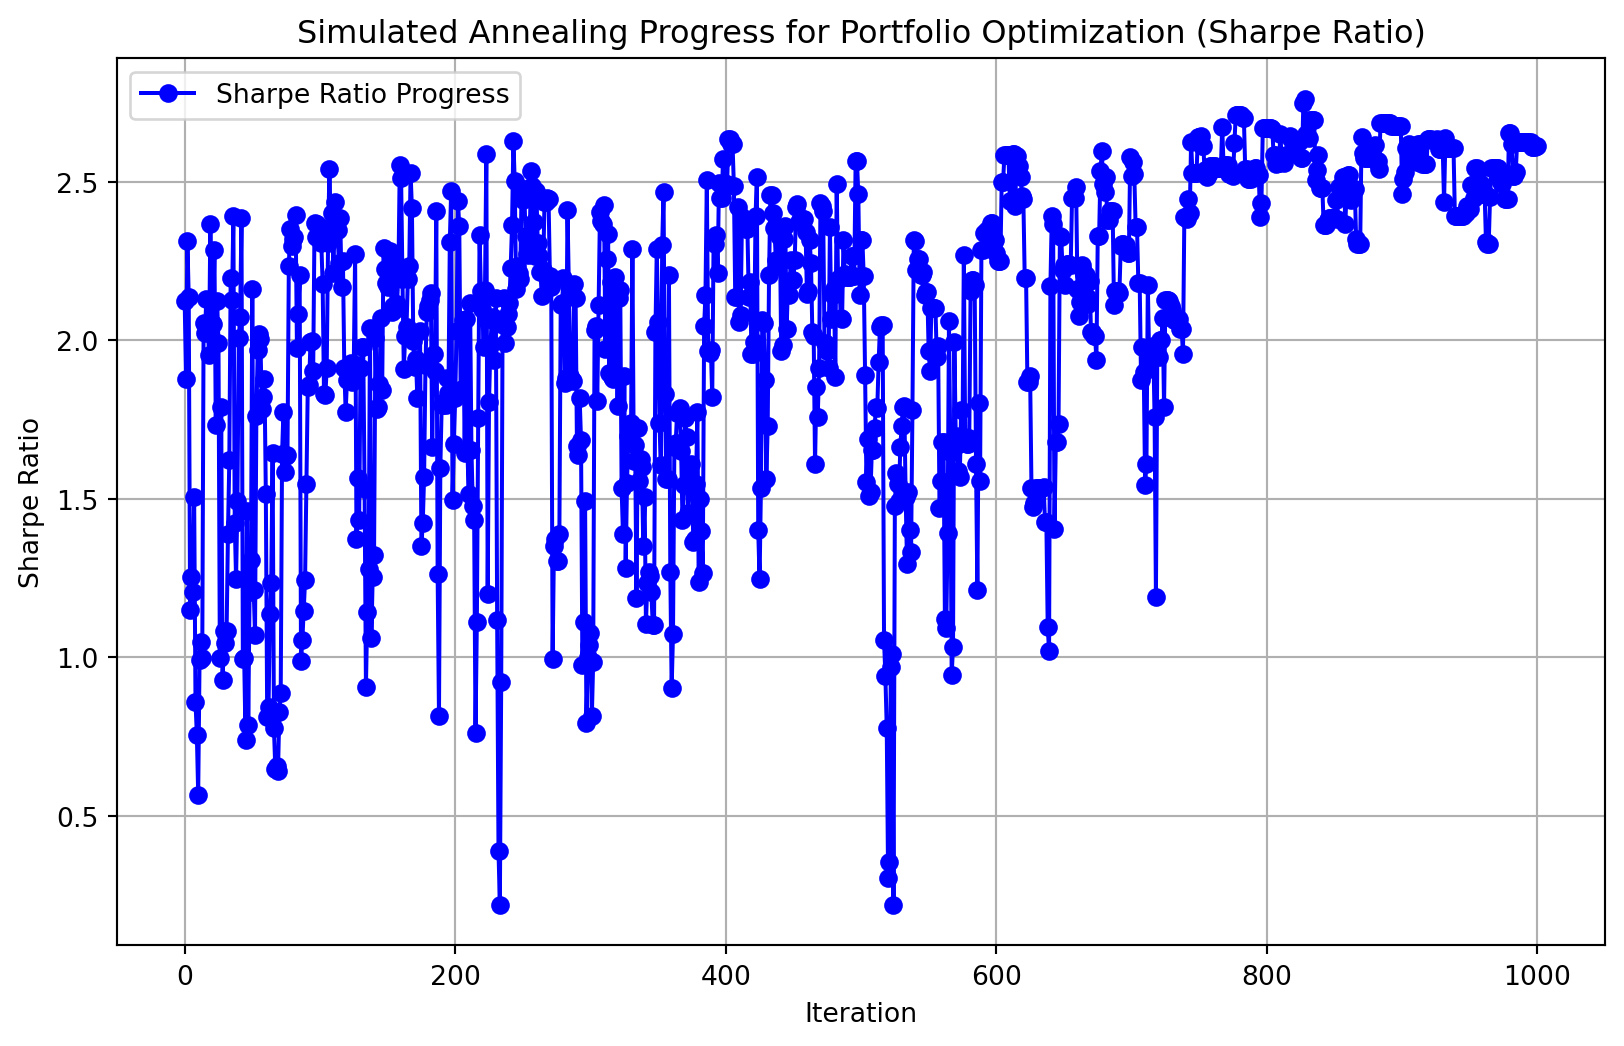
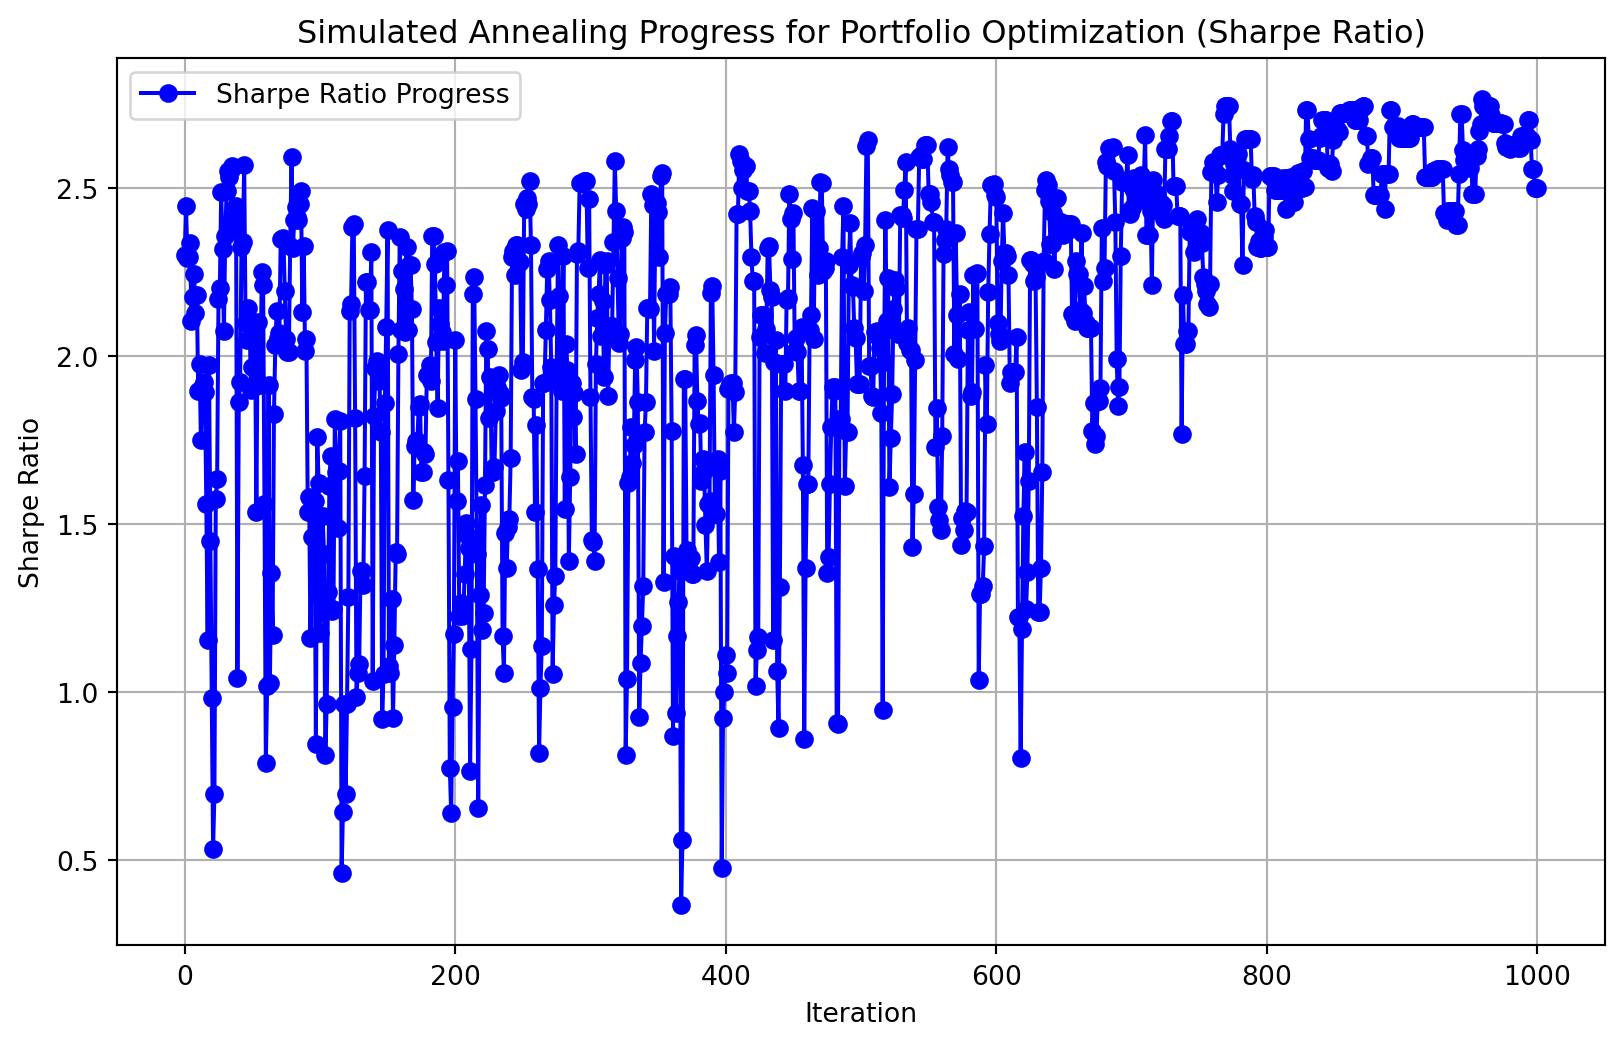
update SA

diff --git a/docs/sa.html b/docs/sa.html
@@ -352,28 +352,16 @@ window.Quarto = {
 <section id="a-unified-framework-for-metaheuristic-algorithms-ufm" class="level2">
 <h2 class="anchored" data-anchor-id="a-unified-framework-for-metaheuristic-algorithms-ufm">A Unified Framework for Metaheuristic Algorithms (UFM)</h2>
 <ul>
-<li>The appearance of metaheuristic algorithms has come with methods to classify them. These classification methods include:
-<ul>
-<li><ol type="1">
-<li>nature-inspired vs.&nbsp;non-nature inspired,</li>
-</ol></li>
-<li><ol start="2" type="1">
-<li>dynamic vs.&nbsp;static objective function,</li>
-</ol></li>
-<li><ol start="3" type="1">
-<li>one vs.&nbsp;various neighborhood structures,</li>
-</ol></li>
-<li><ol start="4" type="1">
-<li>memory usage vs.&nbsp;memoryless methods,</li>
-</ol></li>
-<li><ol start="5" type="1">
-<li>with vs.&nbsp;without local search method, and</li>
-</ol></li>
-<li><ol start="6" type="1">
-<li>population-based vs.&nbsp;single-solution-based search.</li>
-</ol></li>
-</ul></li>
+<li>The appearance of metaheuristic algorithms has come with methods to classify them. These classification methods include:</li>
 </ul>
+<ol type="1">
+<li>nature-inspired vs.&nbsp;non-nature inspired,</li>
+<li>dynamic vs.&nbsp;static objective function,</li>
+<li>one vs.&nbsp;various neighborhood structures,</li>
+<li>memory usage vs.&nbsp;memoryless methods,</li>
+<li>with vs.&nbsp;without local search method, and</li>
+<li>population-based vs.&nbsp;single-solution-based search.</li>
+</ol>
 </section>
 <section id="ufm-5-main-operators" class="level2">
 <h2 class="anchored" data-anchor-id="ufm-5-main-operators">UFM 5 Main Operators</h2>
@@ -617,7 +605,7 @@ window.Quarto = {
 <h1>Making a Model: One Max with SA</h1>
 <section id="imports-global-variables" class="level2">
 <h2 class="anchored" data-anchor-id="imports-global-variables">Imports, Global Variables</h2>
-<div id="afe1efc4" class="cell" data-execution_count="1">
+<div id="7337e746" class="cell" data-execution_count="1">
 <div class="sourceCode cell-code" id="cb1"><pre class="sourceCode python code-with-copy"><code class="sourceCode python"><span id="cb1-1"><a href="#cb1-1" aria-hidden="true" tabindex="-1"></a><span class="co">##Simulated Annealing One-Max Example</span></span>
 <span id="cb1-2"><a href="#cb1-2" aria-hidden="true" tabindex="-1"></a><span class="im">import</span> numpy <span class="im">as</span> np</span>
 <span id="cb1-3"><a href="#cb1-3" aria-hidden="true" tabindex="-1"></a><span class="im">import</span> random</span>
@@ -637,7 +625,7 @@ window.Quarto = {
 <ul>
 <li>The init_sa function initializes a random solution (sol) for the One-Max problem by generating a binary array of size num_bits (default 10), where each element is randomly set to 0 or 1.The initial solution is evaluated using the One-Max function (evaluate) to calculate its fitness (i.e., the sum of 1’s in the array).The function returns the initial solution and its evaluated fitness.</li>
 </ul>
-<div id="d781e37d" class="cell" data-execution_count="2">
+<div id="7439b102" class="cell" data-execution_count="2">
 <div class="sourceCode cell-code" id="cb2"><pre class="sourceCode python code-with-copy"><code class="sourceCode python"><span id="cb2-1"><a href="#cb2-1" aria-hidden="true" tabindex="-1"></a><span class="co"># Initialization function (I)</span></span>
 <span id="cb2-2"><a href="#cb2-2" aria-hidden="true" tabindex="-1"></a><span class="kw">def</span> init_sa(num_bits):</span>
 <span id="cb2-3"><a href="#cb2-3" aria-hidden="true" tabindex="-1"></a>    sol <span class="op">=</span> np.random.randint(<span class="dv">0</span>, <span class="dv">2</span>, num_bits)</span>
@@ -650,7 +638,7 @@ window.Quarto = {
 <li>This is done by randomly selecting an index in the binary array and toggling the bit (changing 1 to 0 or 0 to 1).</li>
 <li>This new solution represents the neighboring candidate that will be evaluated next, which is a small random change to the current solution.</li>
 </ul>
-<div id="32e40772" class="cell" data-execution_count="3">
+<div id="aba89957" class="cell" data-execution_count="3">
 <div class="sourceCode cell-code" id="cb3"><pre class="sourceCode python code-with-copy"><code class="sourceCode python"><span id="cb3-1"><a href="#cb3-1" aria-hidden="true" tabindex="-1"></a><span class="co"># Transition function (T)</span></span>
 <span id="cb3-2"><a href="#cb3-2" aria-hidden="true" tabindex="-1"></a><span class="kw">def</span> transit(sol):</span>
 <span id="cb3-3"><a href="#cb3-3" aria-hidden="true" tabindex="-1"></a>    new_sol <span class="op">=</span> sol.copy()</span>
@@ -664,7 +652,7 @@ window.Quarto = {
 <ul>
 <li>The evaluate function calculates the fitness of the current solution by summing up the number of 1’s in the binary array (sol).The One-Max problem aims to maximize this value, with the goal being to find the solution with all bits set to 1.</li>
 </ul>
-<div id="ca8c0f10" class="cell" data-execution_count="4">
+<div id="b1e90ff8" class="cell" data-execution_count="4">
 <div class="sourceCode cell-code" id="cb4"><pre class="sourceCode python code-with-copy"><code class="sourceCode python"><span id="cb4-1"><a href="#cb4-1" aria-hidden="true" tabindex="-1"></a><span class="co"># Evaluation Function (E): One-max function</span></span>
 <span id="cb4-2"><a href="#cb4-2" aria-hidden="true" tabindex="-1"></a><span class="kw">def</span> evaluate(sol):</span>
 <span id="cb4-3"><a href="#cb4-3" aria-hidden="true" tabindex="-1"></a>    <span class="cf">return</span> np.<span class="bu">sum</span>(sol)</span></code><button title="Copy to Clipboard" class="code-copy-button"><i class="bi"></i></button></pre></div>
@@ -682,7 +670,7 @@ window.Quarto = {
 </ul></li>
 <li>The function returns True if the new solution is accepted, otherwise False.</li>
 </ul>
-<div id="dc75d955" class="cell" data-execution_count="5">
+<div id="12f8e120" class="cell" data-execution_count="5">
 <div class="sourceCode cell-code" id="cb5"><pre class="sourceCode python code-with-copy"><code class="sourceCode python"><span id="cb5-1"><a href="#cb5-1" aria-hidden="true" tabindex="-1"></a><span class="co"># Determination function for SA (D)</span></span>
 <span id="cb5-2"><a href="#cb5-2" aria-hidden="true" tabindex="-1"></a><span class="kw">def</span> determine(neighbor_value, current_value, temperature):</span>
 <span id="cb5-3"><a href="#cb5-3" aria-hidden="true" tabindex="-1"></a>    <span class="cf">if</span> neighbor_value <span class="op">&gt;</span> current_value:</span>
@@ -709,7 +697,7 @@ window.Quarto = {
 <li>The number of iterations is incremented.</li>
 <li>After the loop terminates (either because the temperature has cooled sufficiently or the maximum number of iterations has been reached), the function returns:best_sol: The best solution found during the process.best_value: The fitness value of the best solution.value_history: A list of the fitness values over time, useful for visualizing the algorithm’s progress.</li>
 </ul>
-<div id="f09f38c0" class="cell" data-execution_count="6">
+<div id="13c20d7e" class="cell" data-execution_count="6">
 <div class="sourceCode cell-code" id="cb6"><pre class="sourceCode python code-with-copy"><code class="sourceCode python"><span id="cb6-1"><a href="#cb6-1" aria-hidden="true" tabindex="-1"></a><span class="co"># Simulated Annealing (SA) function</span></span>
 <span id="cb6-2"><a href="#cb6-2" aria-hidden="true" tabindex="-1"></a><span class="kw">def</span> simulated_annealing(num_bits):</span>
 <span id="cb6-3"><a href="#cb6-3" aria-hidden="true" tabindex="-1"></a>    current_sol, current_value <span class="op">=</span> init_sa(num_bits)</span>
@@ -745,7 +733,7 @@ window.Quarto = {
 <li>The temperature gradually cools down, reducing the chance of accepting worse solutions as the algorithm progresses.</li>
 <li>Finally, the results are printed and plotted for visual analysis.</li>
 </ul>
-<div id="9f48577c" class="cell" data-execution_count="7">
+<div id="22e532a1" class="cell" data-execution_count="7">
 <div class="sourceCode cell-code" id="cb7"><pre class="sourceCode python code-with-copy"><code class="sourceCode python"><span id="cb7-1"><a href="#cb7-1" aria-hidden="true" tabindex="-1"></a><span class="co"># Main execution</span></span>
 <span id="cb7-2"><a href="#cb7-2" aria-hidden="true" tabindex="-1"></a>start_time <span class="op">=</span> time.time()</span>
 <span id="cb7-3"><a href="#cb7-3" aria-hidden="true" tabindex="-1"></a>best_sol, best_value, value_history <span class="op">=</span> simulated_annealing(num_bits)</span>
@@ -756,7 +744,7 @@ window.Quarto = {
 </section>
 <section id="output" class="level2">
 <h2 class="anchored" data-anchor-id="output">Output</h2>
-<div id="a2f8028e" class="cell" data-execution_count="8">
+<div id="7d791292" class="cell" data-execution_count="8">
 <div class="sourceCode cell-code" id="cb8"><pre class="sourceCode python code-with-copy"><code class="sourceCode python"><span id="cb8-1"><a href="#cb8-1" aria-hidden="true" tabindex="-1"></a><span class="co"># Output results (O)</span></span>
 <span id="cb8-2"><a href="#cb8-2" aria-hidden="true" tabindex="-1"></a><span class="bu">print</span>(<span class="ss">f"Best solution: </span><span class="sc">{</span>best_sol<span class="sc">}</span><span class="ss">"</span>)</span>
 <span id="cb8-3"><a href="#cb8-3" aria-hidden="true" tabindex="-1"></a><span class="bu">print</span>(<span class="ss">f"Best value (number of 1s): </span><span class="sc">{</span>best_value<span class="sc">}</span><span class="ss">"</span>)</span>
@@ -774,7 +762,7 @@ window.Quarto = {
 <div class="cell-output cell-output-stdout">
 <pre><code>Best solution: [1 1 1 1 1 1 1 1 1 1]
 Best value (number of 1s): 10
-Execution time: 0.008014 seconds</code></pre>
+Execution time: 0.008183 seconds</code></pre>
 </div>
 <div class="cell-output cell-output-display">
 <div>
@@ -796,7 +784,7 @@ Execution time: 0.008014 seconds</code></pre>
 </ul>
 <section id="example-results" class="level2">
 <h2 class="anchored" data-anchor-id="example-results">Example Results</h2>
-<div id="b999e4ee" class="cell" data-execution_count="9">
+<div id="93ce61e1" class="cell" data-execution_count="9">
 <div class="sourceCode cell-code" id="cb10"><pre class="sourceCode python code-with-copy"><code class="sourceCode python"><span id="cb10-1"><a href="#cb10-1" aria-hidden="true" tabindex="-1"></a><span class="im">import</span> numpy <span class="im">as</span> np</span>
 <span id="cb10-2"><a href="#cb10-2" aria-hidden="true" tabindex="-1"></a><span class="im">import</span> random</span>
 <span id="cb10-3"><a href="#cb10-3" aria-hidden="true" tabindex="-1"></a><span class="im">import</span> math</span>
@@ -891,14 +879,14 @@ Execution time: 0.008014 seconds</code></pre>
 <span id="cb10-92"><a href="#cb10-92" aria-hidden="true" tabindex="-1"></a>plt.grid(<span class="va">True</span>)</span>
 <span id="cb10-93"><a href="#cb10-93" aria-hidden="true" tabindex="-1"></a>plt.show()</span></code><button title="Copy to Clipboard" class="code-copy-button"><i class="bi"></i></button></pre></div>
 <div class="cell-output cell-output-stdout">
-<pre><code>Optimal x: 0.00040342405068471976
-Optimal value: 0.00162236377039493
-Execution time: 0.014235 seconds</code></pre>
+<pre><code>Optimal x: -0.0010157381470969895
+Optimal value: 0.004117898113034091
+Execution time: 0.011998 seconds</code></pre>
 </div>
 <div class="cell-output cell-output-display">
 <div>
 <figure class="figure">
-<p><img src="sa_files/figure-html/cell-10-output-2.png" width="821" height="523" class="figure-img"></p>
+<p><img src="sa_files/figure-html/cell-10-output-2.png" width="808" height="523" class="figure-img"></p>
 </figure>
 </div>
 </div>
@@ -945,7 +933,7 @@ Execution time: 0.014235 seconds</code></pre>
 </section>
 <section id="portfolio-diversification-with-sa" class="level1">
 <h1>Portfolio Diversification With SA</h1>
-<div id="d988308d" class="cell" data-execution_count="10">
+<div id="3e4c09d6" class="cell" data-execution_count="10">
 <div class="sourceCode cell-code" id="cb12"><pre class="sourceCode python code-with-copy"><code class="sourceCode python"><span id="cb12-1"><a href="#cb12-1" aria-hidden="true" tabindex="-1"></a><span class="co">#Simulated Annealing Finance Example</span></span>
 <span id="cb12-2"><a href="#cb12-2" aria-hidden="true" tabindex="-1"></a></span>
 <span id="cb12-3"><a href="#cb12-3" aria-hidden="true" tabindex="-1"></a><span class="im">import</span> yfinance <span class="im">as</span> yf</span>
@@ -1050,7 +1038,7 @@ Execution time: 0.014235 seconds</code></pre>
 <span id="cb12-102"><a href="#cb12-102" aria-hidden="true" tabindex="-1"></a><span class="bu">print</span>(<span class="ss">f"Best Sharpe Ratio: </span><span class="sc">{</span>best_sharpe<span class="sc">:.4f}</span><span class="ss">"</span>)</span>
 <span id="cb12-103"><a href="#cb12-103" aria-hidden="true" tabindex="-1"></a><span class="bu">print</span>(<span class="ss">f"Execution time: </span><span class="sc">{</span>execution_time<span class="sc">:.6f}</span><span class="ss"> seconds"</span>)</span></code><button title="Copy to Clipboard" class="code-copy-button"><i class="bi"></i></button></pre></div>
 <div class="cell-output cell-output-stderr">
-<pre><code>[                       0%                       ][**********            20%                       ]  2 of 10 completed[**************        30%                       ]  3 of 10 completed[*******************   40%                       ]  4 of 10 completed[*******************   40%                       ]  4 of 10 completed[**********************60%****                   ]  6 of 10 completed[**********************60%****                   ]  6 of 10 completed[**********************80%*************          ]  8 of 10 completed[**********************90%******************     ]  9 of 10 completed[*********************100%***********************]  10 of 10 completed</code></pre>
+<pre><code>[                       0%                       ][**********            20%                       ]  2 of 10 completed[**********            20%                       ]  2 of 10 completed[*******************   40%                       ]  4 of 10 completed[**********************50%                       ]  5 of 10 completed[**********************60%****                   ]  6 of 10 completed[**********************70%*********              ]  7 of 10 completed[**********************80%*************          ]  8 of 10 completed[**********************90%******************     ]  9 of 10 completed[*********************100%***********************]  10 of 10 completed</code></pre>
 </div>
 <div class="cell-output cell-output-display">
 <div>
@@ -1061,18 +1049,18 @@ Execution time: 0.014235 seconds</code></pre>
 </div>
 <div class="cell-output cell-output-stdout">
 <pre><code>Optimized Portfolio:
-AAPL: 0.0927
-GOOGL: 0.0024
+AAPL: 0.1171
+GOOGL: 0.0245
 MSFT: 0.0000
-AMZN: 0.1218
-TSLA: 0.0000
-NFLX: 0.2651
-NVDA: 0.0569
-META: 0.3162
-DIS: 0.1450
+AMZN: 0.1043
+TSLA: 0.0002
+NFLX: 0.2319
+NVDA: 0.0010
+META: 0.3879
+DIS: 0.1331
 BA: 0.0000
-Best Sharpe Ratio: 2.7621
-Execution time: 0.097523 seconds</code></pre>
+Best Sharpe Ratio: 2.7660
+Execution time: 0.085594 seconds</code></pre>
 </div>
 </div>
 <section id="our-hill-climbing-finance-model-was-better.-why" class="level2">
